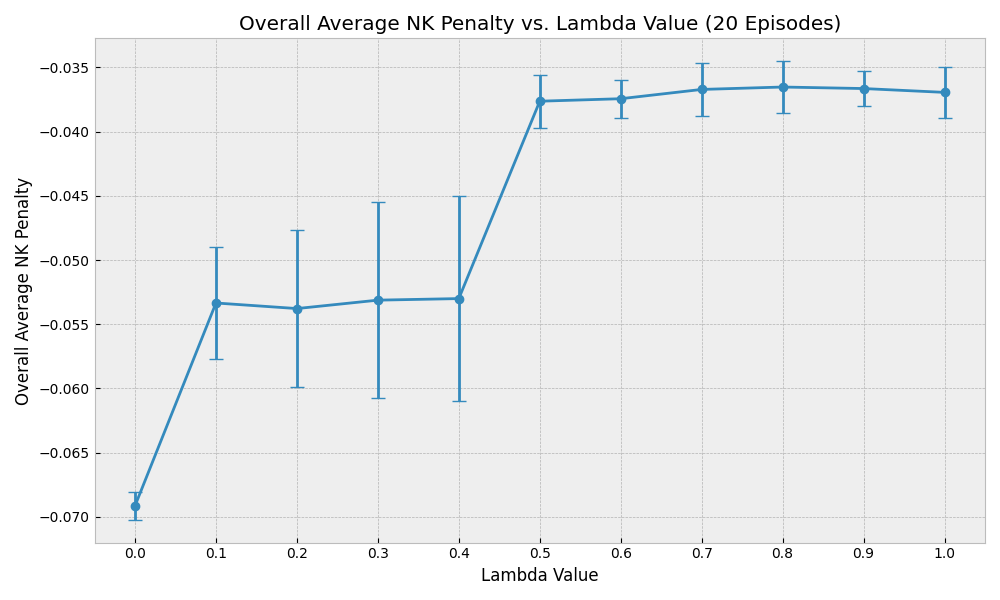
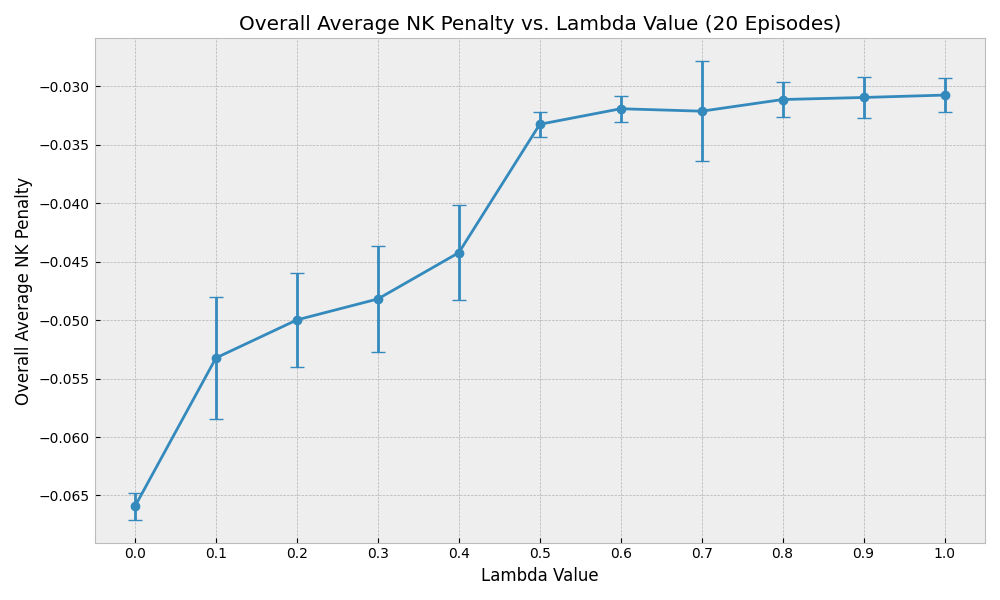
surrogate results rerun

diff --git a/DTR-Bench/nk_penalty_eval.py b/DTR-Bench/nk_penalty_eval.py
@@ -8,23 +8,23 @@ import matplotlib.pyplot as plt
 
 
 agent_configs = [
-    ("agent_lambda0", "ppo_ghaffari_cancer_model__0.zip"),       
+    ("agent_lambda0", "policies/ppo_ghaffari_cancer_model__0.zip"),       
     #("agent_lambda0.1", "ppo_ghaffari_cancer_model.zip"),      
     #("agent_lambda0.25", "ppo_ghaffari_cancer_model_25.zip"),    
     #("agent_lambda0.5", "ppo_ghaffari_cancer_model_05.zip"),     
     #("agent_lambda0.75", "ppo_ghaffari_cancer_model_75.zip"),    
     #("agent_lambda0.9", "ppo_ghaffari_cancer_model_09.zip"),  
-    ("agent_lambda1", "ppo_ghaffari_cancer_model__100.zip"),   
-    ("agent_lambda2", "ppo_ghaffari_cancer_model__200.zip"),     
+    ("agent_lambda1", "policies/ppo_ghaffari_cancer_model__100.zip"),   
+    ("agent_lambda2", "policies/ppo_ghaffari_cancer_model__200.zip"),     
     #("agent_lambda2.5", "ppo_ghaffari_cancer_model__250.zip"),
-    ("agent_lambda3", "ppo_ghaffari_cancer_model__300.zip"),     
-    ("agent_lambda4", "ppo_ghaffari_cancer_model__400.zip"),     
-    ("agent_lambda5", "ppo_ghaffari_cancer_model__500.zip"),    
-    ("agent_lambda6", "ppo_ghaffari_cancer_model__600.zip"),     
-    ("agent_lambda7", "ppo_ghaffari_cancer_model__700.zip"),     
-    ("agent_lambda8", "ppo_ghaffari_cancer_model__800.zip"),     
-    ("agent_lambda9", "ppo_ghaffari_cancer_model__900.zip"),     
-    ("agent_lambda10", "ppo_ghaffari_cancer_model__1000.zip"),   
+    ("agent_lambda3", "policies/ppo_ghaffari_cancer_model__300.zip"),     
+    ("agent_lambda4", "policies/ppo_ghaffari_cancer_model__400.zip"),     
+    ("agent_lambda5", "policies/ppo_ghaffari_cancer_model__500.zip"),    
+    ("agent_lambda6", "policies/ppo_ghaffari_cancer_model__600.zip"),     
+    ("agent_lambda7", "policies/ppo_ghaffari_cancer_model__700.zip"),     
+    ("agent_lambda8", "policies/ppo_ghaffari_cancer_model__800.zip"),     
+    ("agent_lambda9", "policies/ppo_ghaffari_cancer_model__900.zip"),     
+    ("agent_lambda10", "policies/ppo_ghaffari_cancer_model__1000.zip"),   
 ]
 
 
@@ -171,7 +171,7 @@ if penalties_for_plot:
     plt.legend()
     plt.tight_layout()
     
-    plot_filename = os.path.join(PLOT_DIR, "overall_avg_nk_penalty_vs_lambda_episodic_stddev.png")
+    plot_filename = os.path.join(PLOT_DIR, "nk_penalty_vs_lambda.png")
     plt.savefig(plot_filename)
     print(f"\nSaved overall average NK penalty plot with episodic std dev error bars to {plot_filename}")
     plt.close()

diff --git a/DTR-Bench/surrogate_eval_plots.py b/DTR-Bench/surrogate_eval_plots.py
@@ -12,10 +12,10 @@ import jax.numpy as jnp
 
 sys.path.append('/mnt/pdata/hmka3/HTI/NLOT')
 
-AGENT_PATH = "ppo_ghaffari_cancer_model.zip" 
+AGENT_PATH = "policies/ppo_ghaffari_cancer_model__0.zip" 
 AGENT_NAME = "single_agent_eval"
 ENV_NAME = 'GhaffariCancerEnv-continuous'
-NUM_EVAL_EPISODES = 20
+NUM_EVAL_EPISODES = 5
 
 # Define the lambda values to evaluate
 LAMBDA_VALUES = [0.0, 0.1, 0.2, 0.3, 0.4, 0.5, 0.6, 0.7, 0.8, 0.9, 1.0]
@@ -24,7 +24,7 @@ os.makedirs(PLOT_DIR, exist_ok=True)
 
 parser = argparse.ArgumentParser(description='Evaluate a single agent with a pushforward function.')
 parser.add_argument('--lambda_pushforward', type=float, default=0, help='Lambda value for the pushforward function.')
-parser.add_argument('--workspace_path', type=str, default="../NLOT/2025.05.14/eucl_w_potential/0/latest.pkl", help='Path to the trained OT workspace pickle file.')
+parser.add_argument('--workspace_path', type=str, default="../NLOT/2025.05.14/ours/0/latest.pkl", help='Path to the trained OT workspace pickle file.')
 parser.add_argument('--all_lambdas', action='store_true', help='Evaluate all lambda values and generate plot')
 args = parser.parse_args()
 LAMBDA_PUSHFORWARD = args.lambda_pushforward
@@ -137,7 +137,7 @@ def evaluate_lambda(model, lambda_val):
         print(f"Starting Episode {episode_num + 1}/{NUM_EVAL_EPISODES}")
 
         while not done:
-            action, _ = model.predict(obs, deterministic=False)
+            action, _ = model.predict(obs, deterministic=True)
             
             modified_action = pushforward(action, obs, lambda_val)
             
@@ -213,14 +213,14 @@ if args.all_lambdas:
         
         plt.tight_layout()
         
-        plot_filename = os.path.join(PLOT_DIR, "surrogate_avg_nk_penalty_vs_lambda_eucl_w_potential.png")
+        plot_filename = os.path.join(PLOT_DIR, "surrogate_avg_nk_penalty_vs_lambda_ours.png")
         plt.savefig(plot_filename)
         print(f"\nSaved overall average NK penalty plot to {plot_filename}")
         plt.close()
         
         # Save results to CSV
         import csv
-        csv_filename = os.path.join(PLOT_DIR, "surrogate_nk_penalty_data_eucl_w_potential.csv")
+        csv_filename = os.path.join(PLOT_DIR, "surrogate_nk_penalty_data_ours.csv")
         with open(csv_filename, 'w', newline='') as csvfile:
             writer = csv.writer(csvfile)
             writer.writerow(['Lambda', 'Average Penalty', 'Standard Deviation'])
